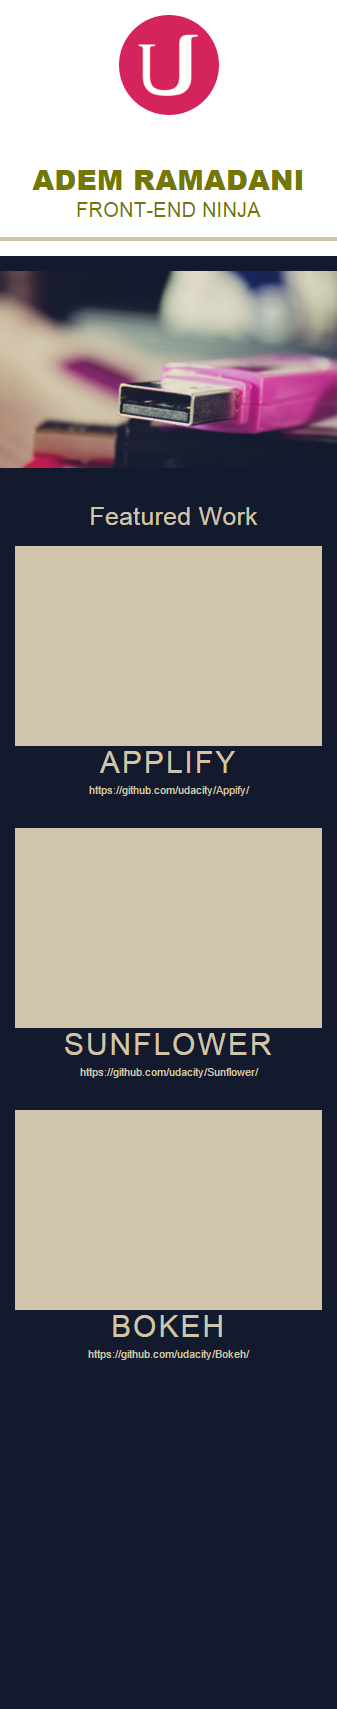
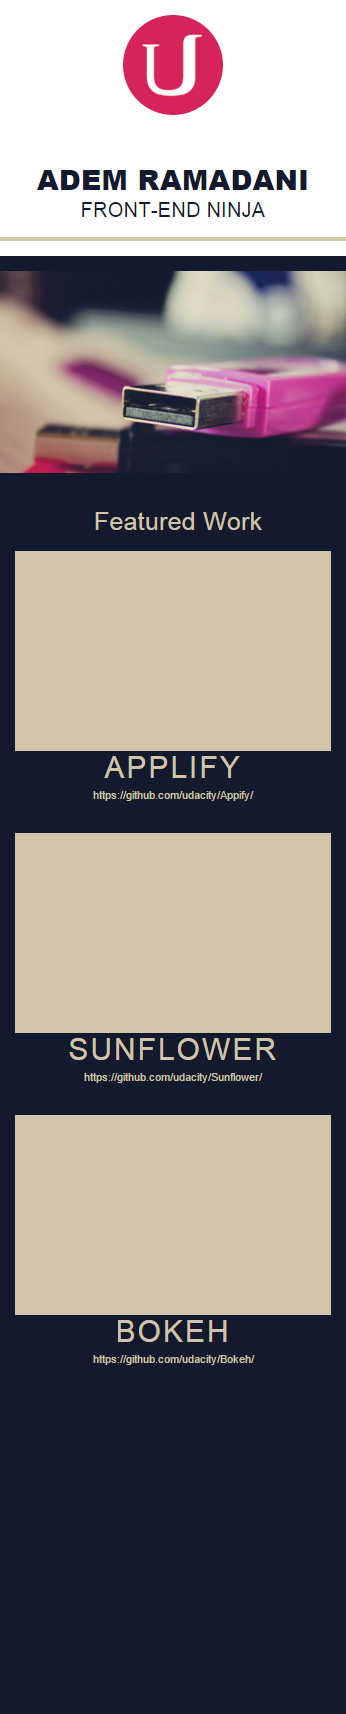
Final correction

diff --git a/Intro_to_HTML_and_CSS/mock4-portfolio-2.css b/Intro_to_HTML_and_CSS/mock4-portfolio-2.css
@@ -4,18 +4,15 @@ and made the same design with just HTML and CSS. Everything was only for
 exercising purposes */
 
 * {
-    box-sizing: border-box;
-    max-width: 960px;
-    margin: 0 auto;
-	font-family: 'Raleway', sans-serif;
-    letter-spacing: 0.25px;
+	box-sizing: border-box;
+	max-width: 960px;
+	margin: 0 auto;
+	letter-spacing: 0.25px;
 }
 
 .bgc {
 	background-color: #131A2D;
 }
-
-
 
 .udacitylogo {
 	width: 100px;
@@ -26,15 +23,15 @@ exercising purposes */
 h1 {
 	padding-top: 10px;
 	text-align: right;
-	color: #747704;
+	color: #131A2D;
 	font-size: 45px;
 	text-transform: uppercase;
-	font-weight:  900 !important;
+	font-weight: 900 !important;
 }
 
 h6 {
 	text-align: right;
-	color: #747704;
+	color: #131A2D;
 	font-size: 20px;
 	text-transform: uppercase;
 	font-weight:  100 !important;
@@ -51,16 +48,16 @@ h3 {
 	font-size: 32px;
 	color: #D0C4AB;
 	padding-left: 10px;
-	font-weight:  100 !important;
+	font-weight: 100 !important;
 }
 
 .imgfull {
-	width:100%;
+	width: 100%;
 	padding: 0px;
 }
 
 .projectimg {
-	width:100%;
+	width: 100%;
 	padding: 100px;
 	background-color: #D0C4AB;
 }

diff --git a/Intro_to_HTML_and_CSS/mock3-portfolio-1.css b/Intro_to_HTML_and_CSS/mock3-portfolio-1.css
@@ -3,11 +3,11 @@ in folder /Sample_Pages_and_Assets_for_the_Course_-_Resources/img
 and made the same design with just HTML and CSS. Everything was only for
 exercising purposes */
 * {
-    box-sizing: border-box;
-    max-width: 960px;
-    margin: 0 auto;
+	box-sizing: border-box;
+	max-width: 960px;
+	margin: 0 auto;
 	font-family: 'Raleway', sans-serif;
-    letter-spacing: 0.25px;
+	letter-spacing: 0.25px;
 }
 
 h1 {
@@ -52,13 +52,13 @@ h3 {
 	color: gray;
 	font-size: 35px;
 	text-transform: uppercase;
-    letter-spacing: 2px;
+	letter-spacing: 2px;
 }
 
 .link {
 	color: silver;
-    letter-spacing: 0px;
-    font-size: 13px;
+	letter-spacing: 0px;
+	font-size: 13px;
 }
 
 a {

diff --git a/Intro_to_HTML_and_CSS/mock4-portfolio-2.html b/Intro_to_HTML_and_CSS/mock4-portfolio-2.html
@@ -3,6 +3,7 @@
 <head>
 	<meta charset="UTF-8">
 	<title>mock4-portfolio-2</title>
+	<meta name="viewport" content="width=device-width, initial-scale=1.0">
     <link rel="stylesheet" type="text/css" href="mock4-portfolio-2.css">
 </head>
 <!-- I have only guessed the size of the PDF called mock4-portfolio-2.pdf
